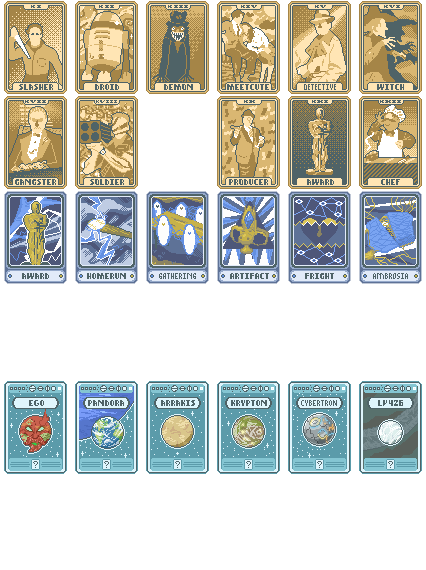
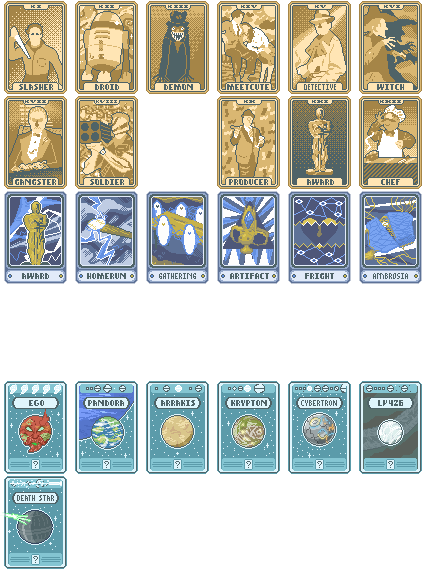
added fixes & death star

diff --git a/README.md b/README.md
@@ -1,4 +1,4 @@
-# Balatro Goes Kino V.0.9-PRERELEASE-d
+# Balatro Goes Kino V.0.9
 
 By Ice/IcyEthics
 
@@ -10,10 +10,9 @@ Requirements:
 Balatro Goes Kino is a mod made to turn a game for poker nerds into a game for poker and movie nerds. It's main content is a large set of jokers inspired by movies, as well as new Enhancements and Tarot cards, with plans for boss blinds, challenges and decks. Grab the latest release from the Releases tab: https://github.com/icyethics/Kino/releases
 
 ### Current Content
-- **211 New Jokers**:  From hits like Titanic, E.T. and Iron Man to unnotable and unremarkable flops like The Three Musketeers (2011) and Krazy House. With many more jokers planned.
-- **5 Enhancement:** A slew of new enhancements inspired by movie genres to help really sell that flavour. Sacrifice cards with Demonic cards, awaken monsters with Horror cards, fall in love with Romance cards, and more!
-- **6 Genre boosters:** New joker boosters, containing only jokers of the given genre.
-- **6 New Planets:** 6 strange new worlds from the silver screen.
+- **262 New Jokers**:  From hits like Titanic, E.T. and Iron Man to unnotable and unremarkable flops like The Three Musketeers (2011) and Krazy House. With many more jokers planned.
+- **7 Enhancement:** A slew of new enhancements inspired by movie genres to help really sell that flavour. Sacrifice cards with Demonic cards, awaken monsters with Horror cards, fall in love with Romance cards, and more!
+- **New Seals, Spectrals, And Planets**
 - **New Consumable: Confections!** Popcorn, soda and cookies. Items to nourish your run and give them a little boost.
 - **New Mechanics:** Earn extra joker slots by playing movies of the same genre. Start slinging spells. Even alien abduction!
 
